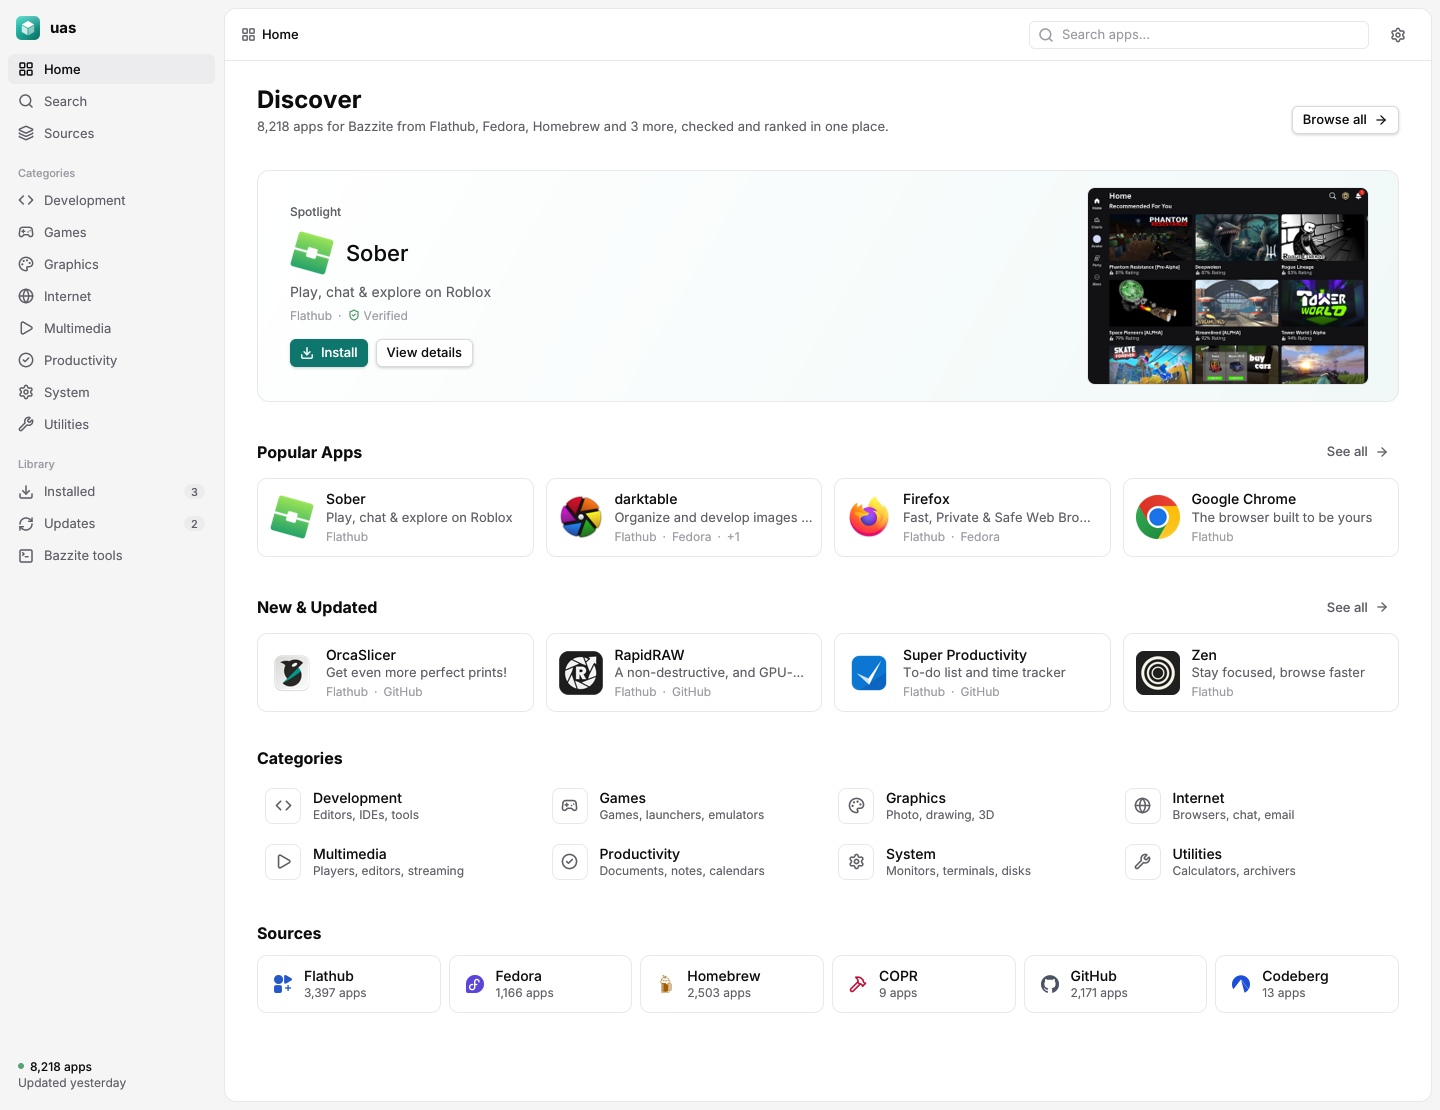
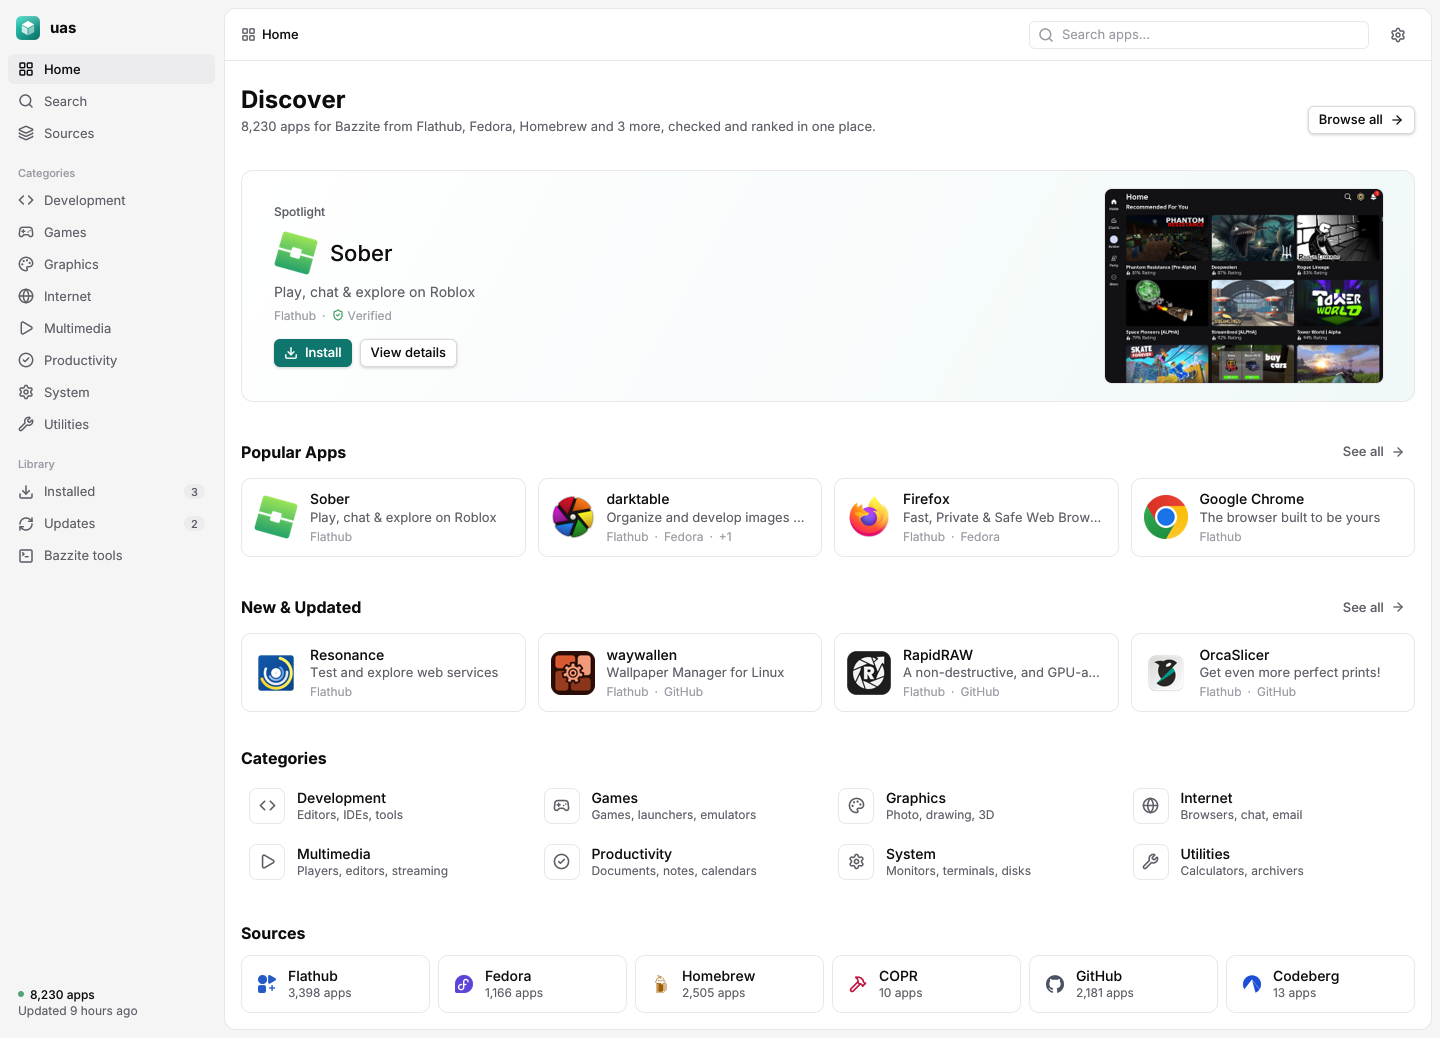
docs: refresh the screenshots for the 16px page margins and scrolling lists
The home shot is 1038px tall now, so the page ends 16px under its last row.

diff --git a/internal/gui/shots_test.go b/internal/gui/shots_test.go
@@ -50,7 +50,7 @@ func TestShots(t *testing.T) {
 		selected string
 		w        float32 // 0: 1440
 	}{
-		{"home", func(a *App) {}, 1110, "", 0},
+		{"home", func(a *App) {}, 1038, "", 0},
 		{"detail-github", func(a *App) {}, 1400, "github:adileo/squirreldisk", 0},
 		{"detail-darktable", func(a *App) {}, 940, "org.darktable.Darktable", 0},
 		{"detail-vscode", func(a *App) {}, 1100, "com.visualstudio.code", 0},
